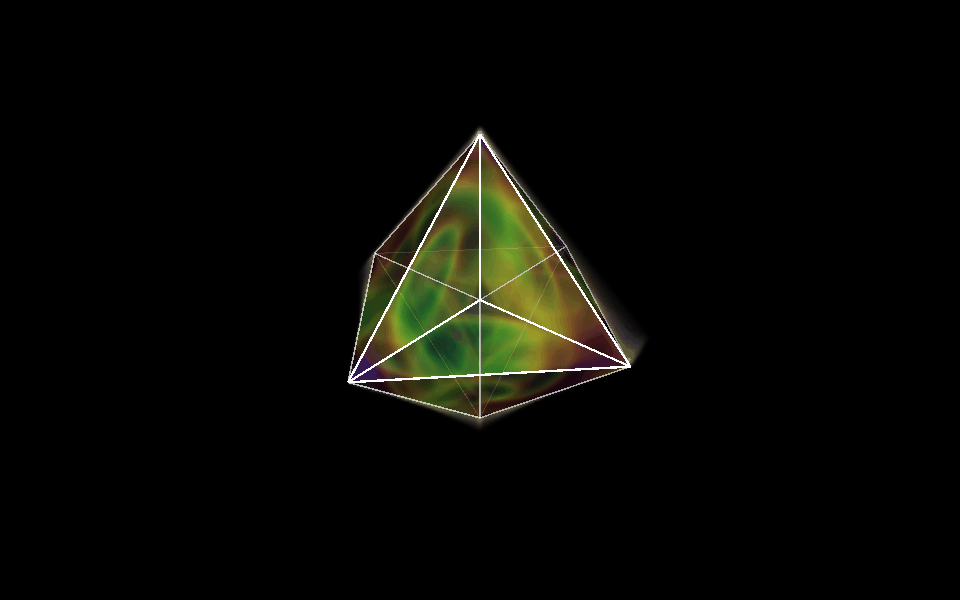
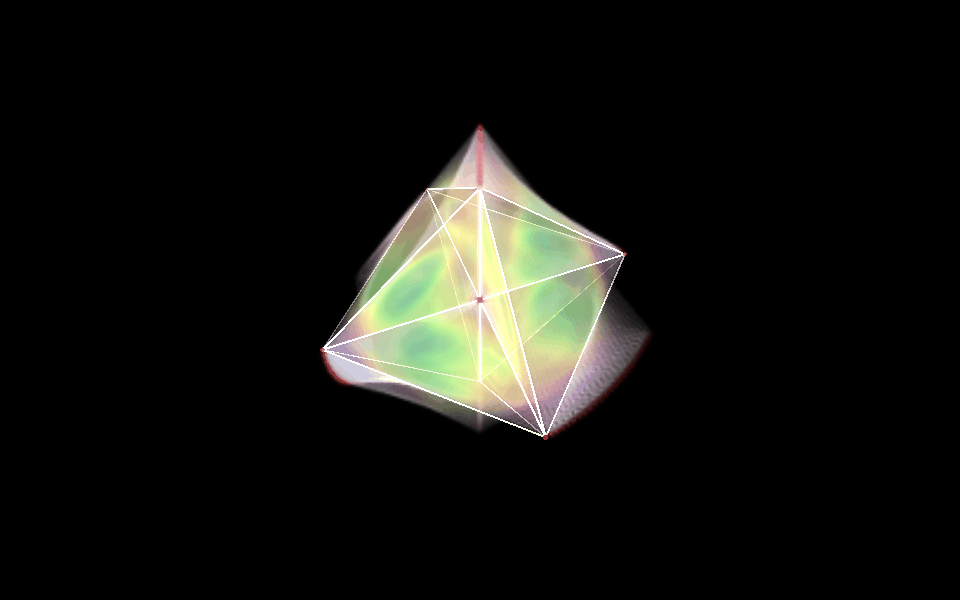
WP6: TRACER's and WAKE's shots and sweeps; WAKE with the dream worker on
tools/preset_shots.py gains TRACER's poses; tools/dream_shots.py gains
--preset <slug>: a party preset through the real loader and hand chain
with the DreamWorker on its slot, paced at 60 fps, one frame per pose
and a sheet (party-wake-dream-sheet.png: WAKE as the app opens it now
that the dream is on by default).

Claude-Session: https://claude.ai/code/session_01Y24cpENFo1bd9SZPZapeuQ

Changed region(s): [[0.3125, 0.21, 0.6875, 0.75]]

diff --git a/hyperspace-python/tools/dream_shots.py b/hyperspace-python/tools/dream_shots.py
@@ -91,17 +91,73 @@ def run(ctx, dream, worker, frames, fps=60.0):
     return times, px
 
 
+def preset_shot(ctx, slug: str, frames: int, precision: str, poses) -> None:
+    """A party preset (plan 14 WP6: WAKE with the worker on, as the app
+    opens it by default) through the real loader and hand chain
+    (tools/preset_shots.Stage), the DreamWorker on its slot, paced at 60
+    fps; one frame per pose to docs/plans/assets/12-presets/<slug>-dream/,
+    and a sheet beside them."""
+    sys.path.insert(0, str(ROOT / "tools"))
+    import preset_shots as ps
+
+    from hyperspace.dream import DreamWorker
+
+    out = ps.OUT / f"{slug}-dream"
+    out.mkdir(parents=True, exist_ok=True)
+    fbo = ctx.framebuffer(color_attachments=[ctx.renderbuffer((ps.W, ps.H))])
+    tiles = []
+    for label, pose in poses:
+        st = ps.Stage(slug, ctx)
+        worker = DreamWorker(st.reg, {"enabled": True, "precision": precision})
+        st.renderer.lookback.source = worker
+        st.frame({}, fbo)
+        worker.drain(120.0)                       # the trunk loads on the first submit
+        hands = ps.pose_hands(pose)
+        next_tick = time.perf_counter()
+        for _ in range(frames):
+            st.frame(hands, fbo)
+            ctx.finish()
+            next_tick += 1 / 60
+            rem = next_tick - time.perf_counter()
+            if rem > 0:
+                time.sleep(rem)
+        img = np.frombuffer(fbo.read(components=3), dtype=np.uint8).reshape(ps.H, ps.W, 3)[::-1]
+        p = out / (label.replace(" ", "-").replace("(", "").replace(")", "").lower() + ".png")
+        Image.fromarray(img.copy()).quantize(256, method=Image.Quantize.MEDIANCUT,
+                                              dither=Image.Dither.FLOYDSTEINBERG).save(
+            p, optimize=True)
+        tiles.append((label, p))
+        print(f"{label}: {worker.status()}")
+        worker.close()
+        st.release()
+    ps.sheet(tiles, ps.OUT / f"{slug}-dream-sheet.png", cols=3)
+    print("wrote", (ps.OUT / f"{slug}-dream-sheet.png").relative_to(ROOT))
+    fbo.release()
+
+
+WAKE_POSES = [("no hands", {}), ("L up (speed)", {"L.y": 1}),
+              ("R up + reach in (long)", {"R.y": 1, "R.z": 0}),
+              ("R roll thumb-up (hue)", {"R.roll": 1}),
+              ("R pitch fingers-up (dream)", {"R.pitch": 1}),
+              ("R pitch fingers-down", {"R.pitch": 0})]
+
+
 def main() -> None:
     ap = argparse.ArgumentParser()
     ap.add_argument("--frames", type=int, default=90)
     ap.add_argument("--layer", default="conv3_3", choices=LAYERS)
     ap.add_argument("--precision", default="fp32", choices=("fp32", "fp16"))
+    ap.add_argument("--preset", default="", help="a party preset slug (party-wake): its "
+                    "poses with the worker on, instead of the spike's scene")
     args = ap.parse_args()
     from hyperspace.dream import DreamWorker
 
     ctx = moderngl.create_context(standalone=True)
+    if args.preset:
+        preset_shot(ctx, args.preset, args.frames, args.precision, WAKE_POSES)
+        return
     # the spike's defaults (DreamState), the dream buffer alone over the scene
-    dream = DreamState(on=True, echoes=0, every=1, layer=LAYERS.index(args.layer))
+    dream = DreamState(on=True, echoes=0, gap=0.0, layer=LAYERS.index(args.layer))
     reg = registry(dream)
     worker = DreamWorker(reg, {"enabled": True, "precision": args.precision})
     # warm: the trunk loads on the first submit; keep the loop from timing that
@@ -122,7 +178,7 @@ def main() -> None:
                                  dither=Image.Dither.FLOYDSTEINBERG).save(OUT, optimize=True)
     print(f"wrote {OUT} ({OUT.stat().st_size / 1e3:.0f} kB)")
 
-    none_times, _ = run(ctx, DreamState(on=True, echoes=0, every=1), None, args.frames)
+    none_times, _ = run(ctx, DreamState(on=True, echoes=0, gap=0.0), None, args.frames)
     print(f"\n{args.layer} {args.precision} at {r.lookback.echo[0]}x{r.lookback.echo[1]}, "
           f"{args.frames} frames paced at 60 fps, renderer at {W}x{H} (ms)")
     print("| what | p50 | p99 | max | n |")

diff --git a/hyperspace-python/tools/preset_shots.py b/hyperspace-python/tools/preset_shots.py
@@ -99,6 +99,14 @@ POSES: dict[str, list[tuple[str, dict[str, float]]]] = {
         ("L up (pump)", {"L.y": 1}), ("L left + R up", {"L.x": 0, "R.y": 1}),
         ("L reach in + R up", {"L.z": 0, "R.y": 1}),
     ],
+    # plan 14 WP6: the legible echoes (in the list, on no F-key)
+    "party-tracer": [
+        ("no hands", {}), ("both level", {"L.y": 0, "R.y": 0}),
+        ("L roll thumb-up (turn)", {"L.roll": 1}), ("L up (spin)", {"L.y": 1}),
+        ("R up (bright trail)", {"R.y": 1}), ("R reach in (long)", {"R.z": 0}),
+        ("R pull back (short)", {"R.z": 1}), ("R roll thumb-up (covered)", {"R.roll": 1}),
+        ("R roll thumb-down (through)", {"R.roll": 0}), ("R pitch fingers-up (hard)", {"R.pitch": 1}),
+    ],
     # plan 14 WP5: the effect families on F6–F8
     "party-acid": [
         ("no hands", {}), ("both level", {"L.y": 0, "R.y": 0}),

diff --git a/hyperspace-python/docs/plans/assets/12-presets/party-wake-sweep.md b/hyperspace-python/docs/plans/assets/12-presets/party-wake-sweep.md
@@ -1,14 +1,14 @@
 # party-wake — hand sweeps
 
-Each cell is the target's value after the hand has held that position for 90 frames (1.5 s) through the real hand chain (default feel: dead zone 0.04 on the centred axes, return 0.5 s), then *out* is the value 90 frames after the hand left at u = 1, and *never* the value when that hand was never seen. The scene's base is the first column; a rotation phase is shown as the hand's offset from the base, since a live plane keeps turning underneath.
+Each cell is the target's value after the hand has held that position for 90 frames (1.5 s) through the real hand chain (default feel: dead zone 0.04 on the centred axes, return 0.5 s), then *out* is the value 90 frames after the hand left at u = 1, and *never* the value when that hand was never seen. The preset's base is the first column; a rotation phase is shown as the hand's offset from the base, since a live plane keeps turning underneath.
 
 | hand axis | target | op | base | u=0 | u=¼ | u=½ | u=¾ | u=1 | out | never |
 |---|---|---|---|---|---|---|---|---|---|---|
-| L roll | `rot.phase.XY` | push +0.25 | 0° | -45° | -22° | +0° | +22° | +45° | -0° | +0° |
-| L pitch | `rot.phase.YZ` | push +0.25 | 0° | -45° | -22° | +0° | +22° | +45° | -0° | +0° |
-| L yaw | `rot.phase.XZ` | push +0.25 | 0° | -45° | -22° | +0° | +22° | +45° | -0° | +0° |
-| L y | `view.speed` | push +0.4 | 0.350 | 0.350 | 0.609 | 1.06 | 1.85 | 3.22 | 0.350 | 0.350 |
-| R y | `dream.echo_mix` | push +0.7 | echo 0.30 | echo 0.30 | echo 0.47 | echo 0.65 | echo 0.82 | echo 1.00 | echo 0.30 | echo 0.30 |
-| R z | `dream.decay` | push -0.12 | 0.930 / frame | 0.990 / frame | 0.959 / frame | 0.930 / frame | 0.901 / frame | 0.870 / frame | 0.930 / frame | 0.930 / frame |
-| R roll | `dream.hue` | position | +0° | -180° | -86° | +0° | +86° | -180° | -0° | +0° |
+| L roll | `rot.phase.XY` | push +0.25 | 0° | -45° | -22° | +0° | +22° | +45° | +0° | +0° |
+| L pitch | `rot.phase.YZ` | push +0.25 | 0° | -45° | -22° | +0° | +22° | +45° | +0° | +0° |
+| L yaw | `rot.phase.XZ` | push +0.25 | 0° | -45° | -22° | +0° | +22° | +45° | +0° | +0° |
+| L y | `view.speed` | push +0.4 | 0.600 | 0.600 | 1.04 | 1.82 | 3.17 | 4.00 | 0.600 | 0.600 |
+| R y | `dream.echo_mix` | push +0.45 | echo 0.60 | echo 0.60 | echo 0.71 | echo 0.82 | echo 0.94 | echo 1.00 | echo 0.60 | echo 0.60 |
+| R z | `dream.fade` | push -0.3 | halves in 0.60 s | halves in 1.52 s | halves in 0.94 s | halves in 0.60 s | halves in 0.38 s | halves in 0.24 s | halves in 0.60 s | halves in 0.60 s |
+| R roll | `dream.hue` | position | +0° | -180° | -86° | +0° | +86° | -180° | +0° | +0° |
 | R pitch | `dream.mix` | push +0.5 | dream 0.50 | dream 0.25 | dream 0.38 | dream 0.50 | dream 0.62 | dream 0.75 | dream 0.50 | dream 0.50 |

diff --git a/hyperspace-python/docs/plans/assets/12-presets/party-tracer-sweep.md b/hyperspace-python/docs/plans/assets/12-presets/party-tracer-sweep.md
@@ -1,0 +1,14 @@
+# party-tracer — hand sweeps
+
+Each cell is the target's value after the hand has held that position for 90 frames (1.5 s) through the real hand chain (default feel: dead zone 0.04 on the centred axes, return 0.5 s), then *out* is the value 90 frames after the hand left at u = 1, and *never* the value when that hand was never seen. The preset's base is the first column; a rotation phase is shown as the hand's offset from the base, since a live plane keeps turning underneath.
+
+| hand axis | target | op | base | u=0 | u=¼ | u=½ | u=¾ | u=1 | out | never |
+|---|---|---|---|---|---|---|---|---|---|---|
+| L roll | `rot.phase.XY` | push +0.25 | 0° | -45° | -22° | +0° | +22° | +45° | +0° | +0° |
+| L pitch | `rot.phase.YZ` | push +0.25 | 0° | -45° | -22° | +0° | +22° | +45° | +0° | +0° |
+| L yaw | `rot.phase.XZ` | push +0.25 | 0° | -45° | -22° | +0° | +22° | +45° | +0° | +0° |
+| L y | `view.speed` | push +0.4 | 0.600 | 0.600 | 1.04 | 1.82 | 3.17 | 4.00 | 0.600 | 0.600 |
+| R y | `dream.echo_mix` | push +0.3 | echo 0.70 | echo 0.70 | echo 0.77 | echo 0.85 | echo 0.92 | echo 1.00 | echo 0.70 | echo 0.70 |
+| R z | `dream.fade` | push -0.3 | halves in 0.76 s | halves in 1.94 s | halves in 1.19 s | halves in 0.76 s | halves in 0.49 s | halves in 0.30 s | halves in 0.76 s | halves in 0.76 s |
+| R roll | `dream.occlude` | push +0.6 | occlude 0.30 | occlude 0.00 | occlude 0.16 | occlude 0.30 | occlude 0.44 | occlude 0.60 | occlude 0.30 | occlude 0.30 |
+| R pitch | `dream.contrast` | push +0.3 | ^1.00 | ^0.62 | ^0.82 | ^1.00 | ^1.18 | ^1.38 | ^1.00 | ^1.00 |
